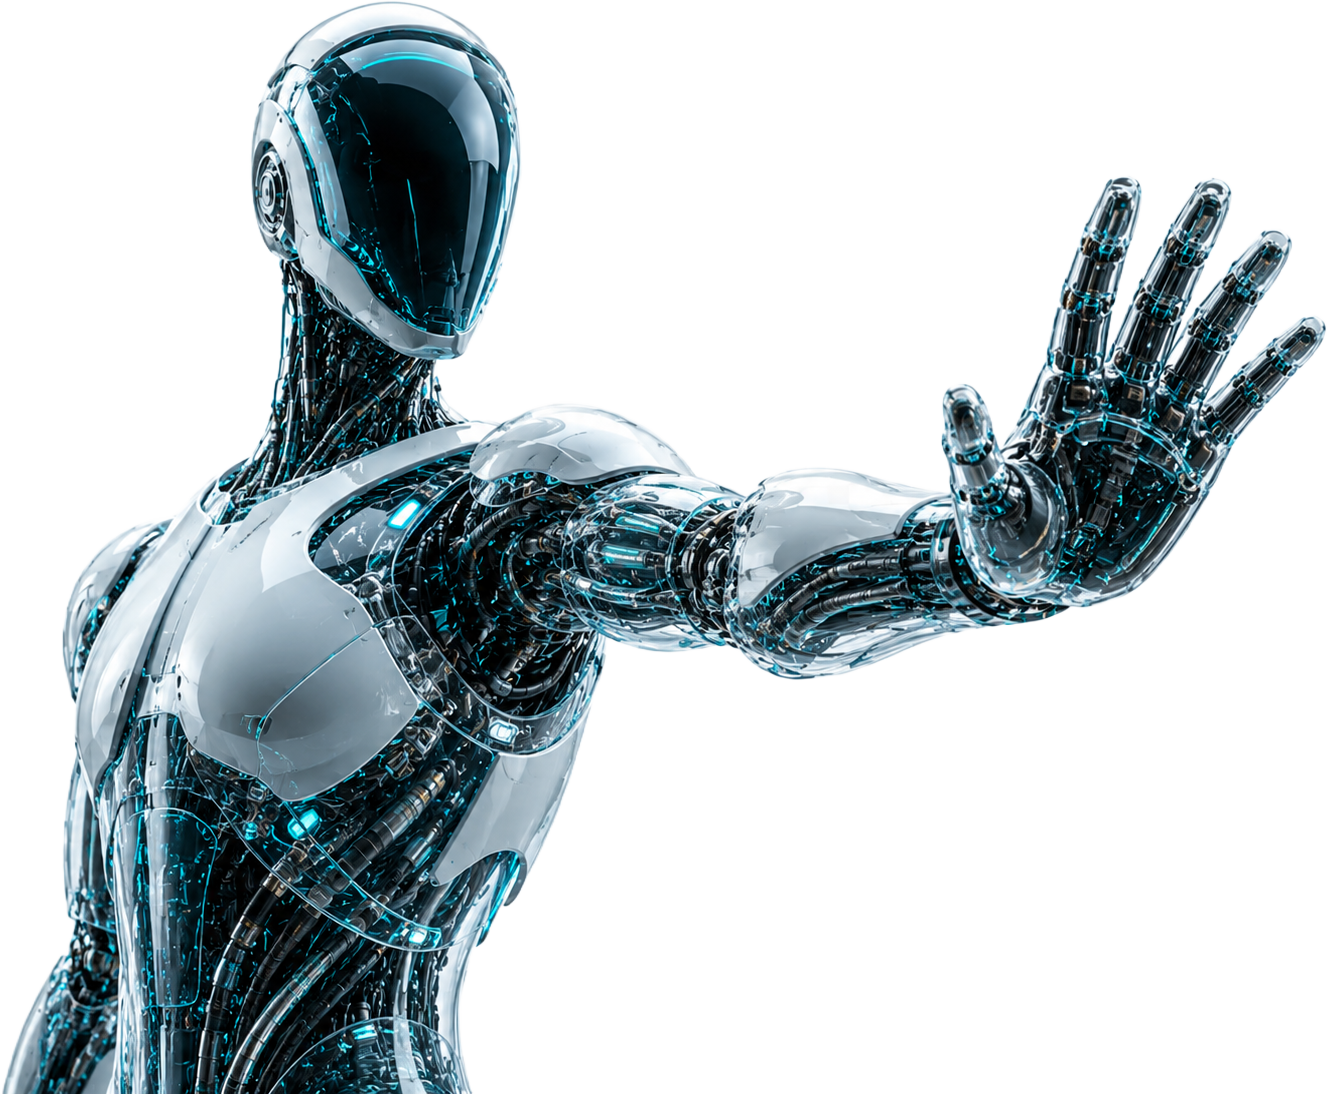
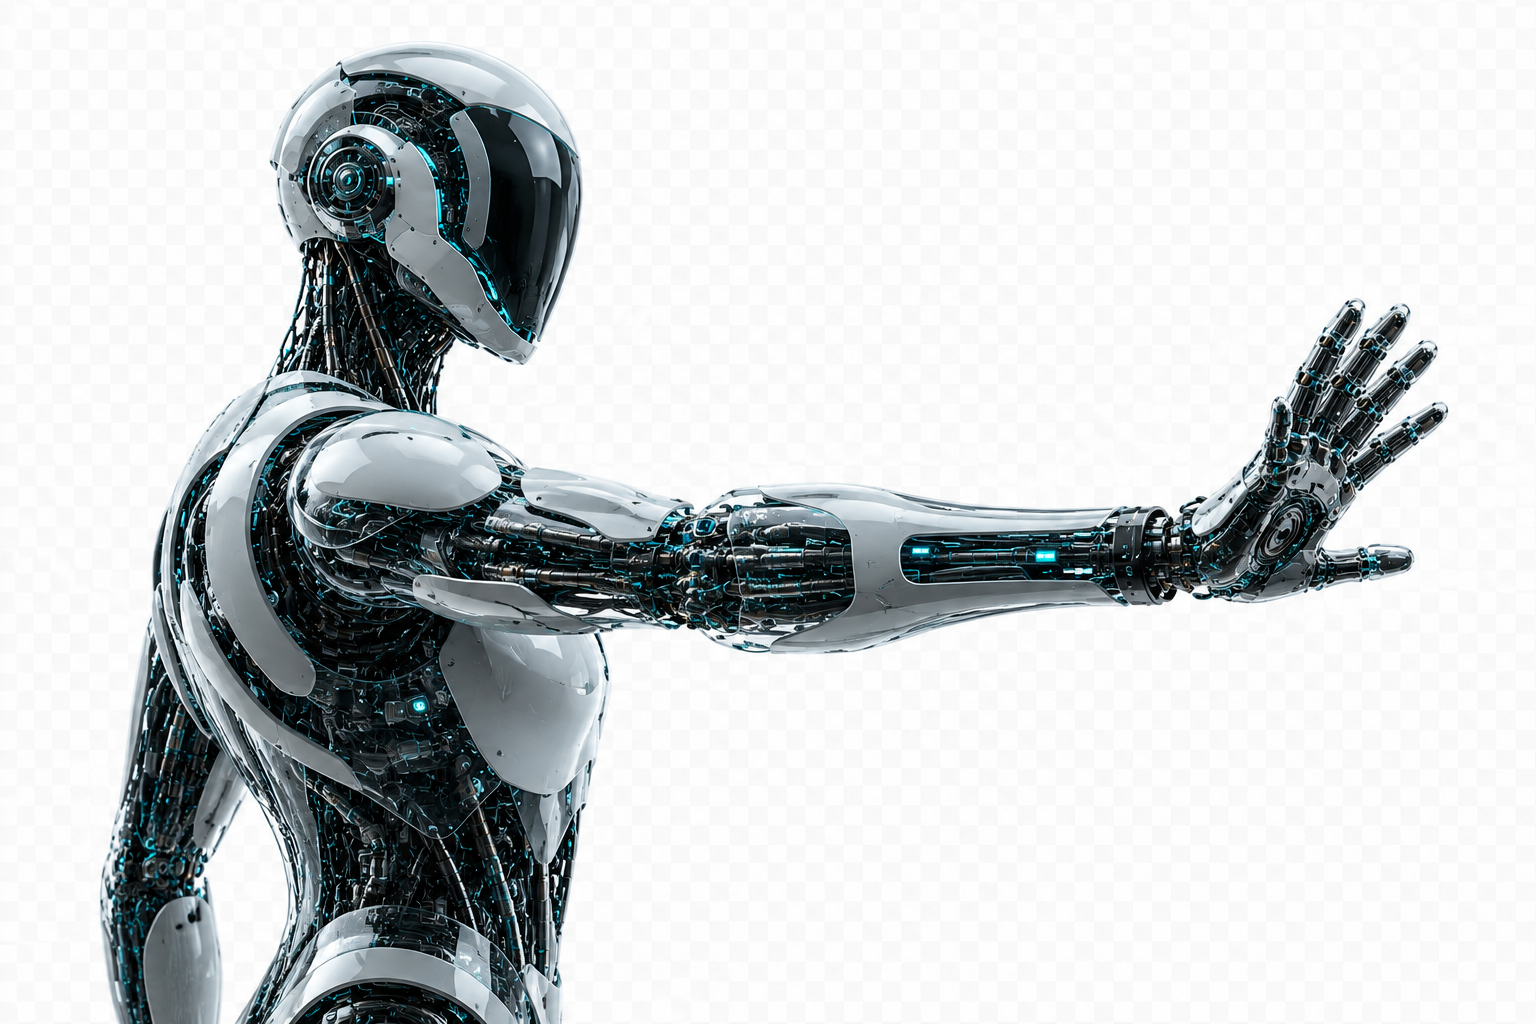
feat: swap robot to new chrome humanoid pointing right, position left so arm points at headline

diff --git a/eset-redesign.css b/eset-redesign.css
@@ -233,22 +233,25 @@ nav {
   pointer-events: none;
   display: flex;
   align-items: center;
-  justify-content: center;
+  justify-content: flex-start;
+  padding-left: 2%;
   animation: robotFloat 7s ease-in-out infinite;
 }
 
 .hero-robot {
-  width: 100%;
-  height: 100%;
-  object-fit: cover;
-  object-position: center center;
+  height: 92%;
+  width: auto;
   display: block;
-  opacity: 0.28;
+  opacity: 0.42;
   filter:
     drop-shadow(0 0 48px rgba(0,187,197,0.55))
     drop-shadow(0 0 120px rgba(0,187,197,0.25))
     brightness(1.05) contrast(1.1);
 }
+
+/* palm glow + scan beam ladené pre starší obrázok — schované pre nový */
+.robot-palm-glow,
+.robot-scan-beam { display: none; }
 
 /* Subtle float + arm scan sweep */
 @keyframes robotFloat {